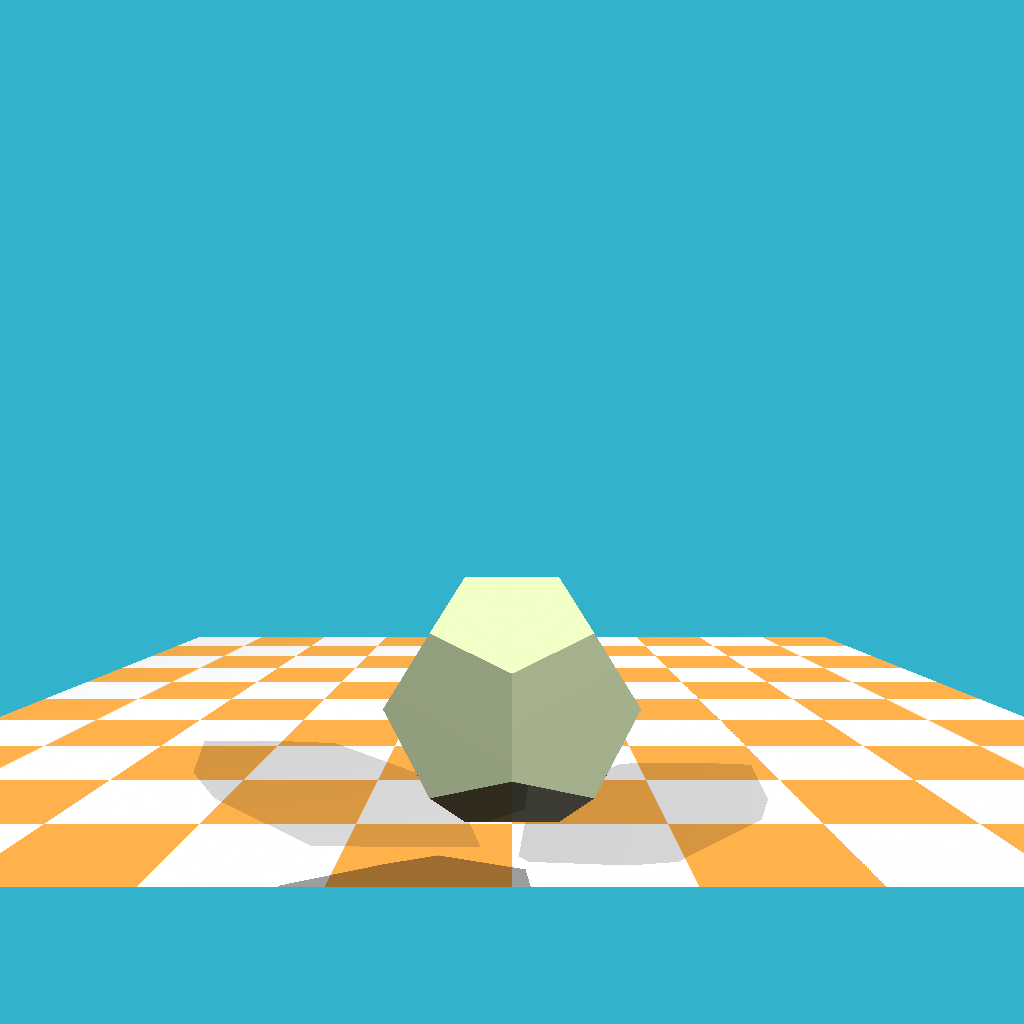
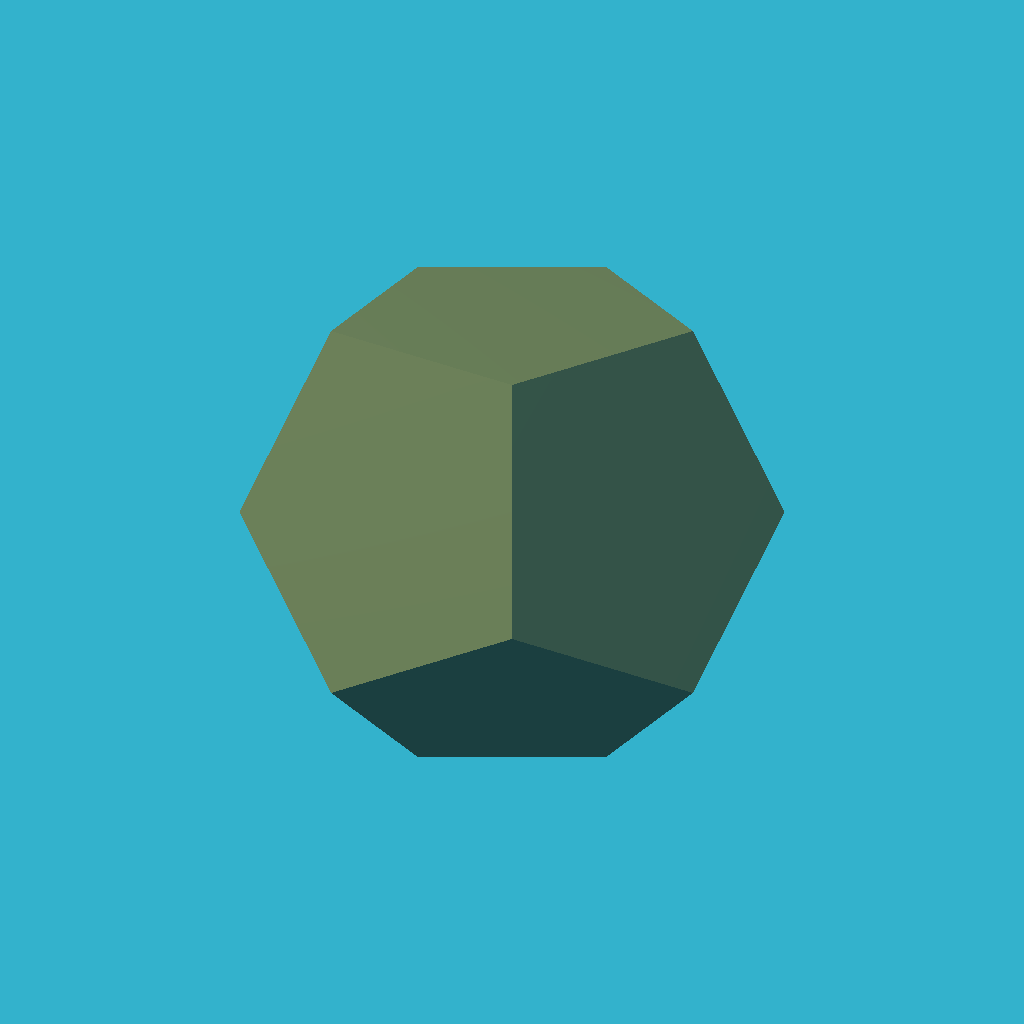
Add files via upload

diff --git a/raytracing/render.cpp b/raytracing/render.cpp
@@ -53,7 +53,7 @@ bool scene_intersect(const Vector &orig, const Vector &dir, const std::vector<Sp
         }
     }
 
-    float checkerboard_dist = std::numeric_limits<float>::max();
+    /*float checkerboard_dist = std::numeric_limits<float>::max();
     if (fabs(dir.y)>1e-3)  {
         float d = -(orig.y+4)/dir.y; // the checkerboard plane has equation y = -4, d - коэффициент
         Vector pt = orig + dir*d;
@@ -64,7 +64,7 @@ bool scene_intersect(const Vector &orig, const Vector &dir, const std::vector<Sp
             material.diffuse_color = (int(.5*hit.x+1000) + int(.5*hit.z)) & 1 ? Vector(1,1,1) : Vector(1, .7, .3);
             material.diffuse_color = material.diffuse_color*.3;
         }
-    }
+    }*/
     return dist<1000;
 }
 
@@ -88,6 +88,11 @@ Vector refract(const Vector &I, const Vector &N, float refractive_index) //norma
     return I*eta + n*(eta * cosi - sqrtf(k));
 }
 
+Vector multiply(const Vector & vec1, const Vector & vec2)
+{
+    return Vector(vec1.x*vec2.x, vec1.y*vec2.y, vec1.z*vec2.z);
+}
+
 Vector cast_ray(const Vector &orig, const Vector &dir, const std::vector<Sphere> &spheres, std::vector<Light> lights, const std::vector<Triangle> triangles, 
     const Dodekaedr & dodekaedr, size_t depth=0) 
 {
@@ -109,8 +114,10 @@ Vector cast_ray(const Vector &orig, const Vector &dir, const std::vector<Sphere>
 
     Vector point1, N1;
     Material material1;
-    float diffuse_light_intensity = 0.5, specular_light_intensity = 0;
-    for (size_t i=0; i<lights.size(); i++) {
+    Vector diffuse(0,0,0), specular(0,0,0);
+    Vector ambient = Light::ambient;
+    for (size_t i=0; i<lights.size(); i++) 
+    {
         Vector light_dir      = (lights[i].position - point).normalize();
 
         float light_distance = (lights[i].position - point).norm();
@@ -119,12 +126,12 @@ Vector cast_ray(const Vector &orig, const Vector &dir, const std::vector<Sphere>
             && fabs((point1 - lights[i].position).norm() - light_distance)>0.001)
             continue;
 
-        diffuse_light_intensity  += lights[i].intensity * std::max(0.f, light_dir*N);
-        specular_light_intensity += powf(std::max(0.f, reflect(light_dir, N)*dir), material.specular_exponent)*lights[i].intensity;
+        diffuse  = diffuse + multiply(lights[i].diffuse, material.diffuse * std::max(0.f, light_dir*N));
+        specular = specular + multiply(lights[i].specular, 
+            material.specular * powf(std::max(0.f, reflect(light_dir, N)*dir), material.shininess*128));
     }
-    return material.diffuse_color * diffuse_light_intensity * material.albedo.x + 
-        Vector(1., 1., 1.)*specular_light_intensity * material.albedo.y + reflect_color*material.albedo.z 
-        + refract_color*material.albedo.d;
+    return multiply(ambient, material.ambient) + diffuse + specular + 
+        reflect_color*material.reflect + refract_color*material.refract;
 }
 
 //начало координат в верхнем левом угле
@@ -167,13 +174,16 @@ void render(const std::vector<Sphere> & spheres, const std::vector<Light> lights
 }
 
 int main() {
-    Material      ivory(1.0, Vector4D(0.6,  0.3, 0.1, 0.0), Vector(0.4, 0.4, 0.3),   256.);
-    Material      glass(1.5, Vector4D(0.0,  0.5, 0.1, 0.8), Vector(0.6, 0.7, 0.8),  125.);
+    Material gold(1.0, Vector(0.24275, 0.1995, 0.0745), Vector(0.75164, 0.60648, 0.22648), Vector(0.628281, 0.555802, 0.366065), 0.4,
+        0.3, 0.0);
+
+    Material      brown(1.0, Vector(1.0f, 0.5f, 0.31f), Vector(1.0f, 0.5f, 0.31f),   Vector(0.5f, 0.5f, 0.5f), 0.25, 0, 0);
+    /*Material      glass(1.5, Vector4D(0.0,  0.5, 0.1, 0.8), Vector(0.6, 0.7, 0.8),  125.);
     Material red_rubber(1.0, Vector4D(0.9,  0.1, 0.0, 0.0), Vector(0.3, 0.1, 0.1),   10.);
-    Material     mirror(1.0, Vector4D(0.0, 10.0, 0.8, 0.0), Vector(1.0, 1.0, 1.0), 1425.);
+    Material     mirror(1.0, Vector4D(0.0, 10.0, 0.8, 0.0), Vector(1.0, 1.0, 1.0), 1425.);*/
 
     std::vector<Sphere> spheres;
-    //spheres.push_back(Sphere(Vector(-5,    0,   -8), 2,      ivory));
+    //spheres.push_back(Sphere(Vector(5,    0,   -15), 2, brown));
     //spheres.push_back(Sphere(Vector(-2.0, -2, -12), 1,      glass));
     //spheres.push_back(Sphere(Vector( 1.5, -0.5, -18), 3, red_rubber));
     //spheres.push_back(Sphere(Vector( 7,    5,   -18), 4,     mirror));
@@ -209,10 +219,9 @@ int main() {
     };
 
     for (int i=0;i<20;i++)
-        vert_list[i].z -= 10;
-
-    for (int i=0;i<20;i++)
-        vert_list[i].y -= 2;
+    {
+        vert_list[i].z -= 5;
+    }
 
     int * triag_list = new int[108]{
     1, 2, 3,
@@ -253,12 +262,12 @@ int main() {
     13, 20, 19
     };
 
-    Dodekaedr dodekaedr(vert_list, triag_list, Vector(0,-1,-10), ivory);
+    Dodekaedr dodekaedr(vert_list, triag_list, Vector(0,-1,-10), gold);
 
     std::vector<Light>  lights;
-    lights.push_back(Light(Vector(-20, 20,  20), 1.5));
-    lights.push_back(Light(Vector( 30, 50, -25), 1.8));
-    lights.push_back(Light(Vector( 30, 20,  30), 1.7));
+    lights.push_back(Light(Vector(-20, 20,  20), Vector(0.5, 0.5, 0.5), Vector(1.0, 1.0, 1.0)));
+    //lights.push_back(Light(Vector( 30, 50, -25), 1.8));
+    //lights.push_back(Light(Vector( 30, 20,  30), 1.7));
     //lights.push_back(Light(Vector( -20, -5,  30), 1.7));
 
     render(spheres, lights, triangles, dodekaedr);
